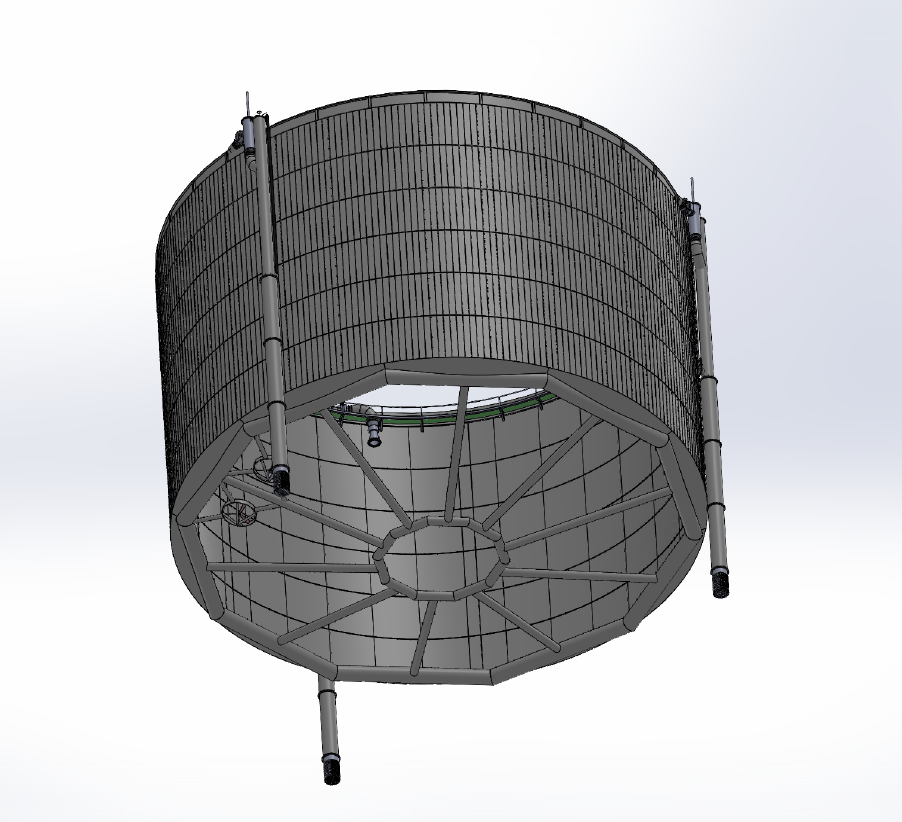
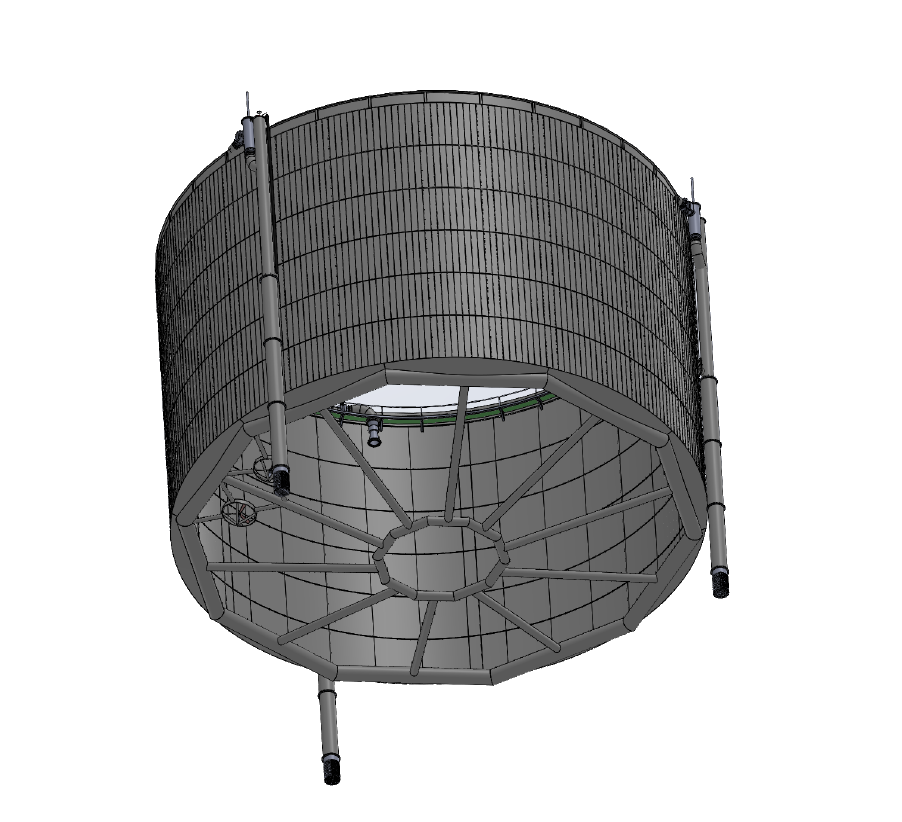
Update site content and imagery from Olav feedback

Changed region(s): [[0.745, 0.0, 1.0, 0.6083], [0.0, 0.4866, 0.1863, 0.5779]]

diff --git a/index.html b/index.html
@@ -508,6 +508,19 @@
             }
             .stat .val { font-size: 1.55rem; }
             .stat .sub { font-size: .68rem; }
+            .pilot-tag {
+                padding: 4px 8px;
+                font-size: .56rem;
+                letter-spacing: .1em;
+            }
+            .pilot-tag--folk {
+                left: 50%;
+                bottom: 5%;
+            }
+            .pilot-tag--nets {
+                left: 50%;
+                top: 41%;
+            }
         }
 
         /* ── Process steps ── */
@@ -531,6 +544,22 @@
 
         /* ── Image frame ── */
         .img-frame { border-radius: 16px; overflow: hidden; border: 1px solid var(--border); background: var(--bg-3); }
+        .solution-semi-frame {
+            background: #fff !important;
+            display: flex;
+            align-items: center;
+            justify-content: center;
+        }
+        .solution-semi-frame img {
+            width: 100%;
+            height: 100%;
+            min-height: 150px;
+            object-fit: contain;
+            object-position: center;
+            transform: scale(1.12);
+            transform-origin: center;
+            background: #fff;
+        }
         .solution-cutout-frame {
             background: #fff !important;
             display: flex;
@@ -543,6 +572,49 @@
             min-height: 150px;
             object-fit: contain;
             background: #fff;
+        }
+        .pilot-annotated-frame {
+            position: relative;
+            max-height: 400px;
+        }
+        .pilot-annotated-frame > img {
+            display: block;
+            width: 100%;
+            max-height: 400px;
+        }
+        .pilot-overlay {
+            position: absolute;
+            inset: 0;
+            pointer-events: none;
+        }
+        .pilot-tag {
+            position: absolute;
+            z-index: 2;
+            display: inline-flex;
+            align-items: center;
+            justify-content: center;
+            padding: 5px 10px;
+            border-radius: 999px;
+            font-size: .62rem;
+            font-weight: 800;
+            letter-spacing: .12em;
+            text-transform: uppercase;
+            color: rgba(237,244,249,.78);
+            background: rgba(3,14,26,.34);
+            border: 1px solid rgba(185,243,239,.12);
+            box-shadow: 0 8px 18px rgba(0,0,0,.12);
+            backdrop-filter: blur(8px);
+            -webkit-backdrop-filter: blur(8px);
+        }
+        .pilot-tag--folk {
+            left: 50%;
+            bottom: 7%;
+            transform: translateX(-50%);
+        }
+        .pilot-tag--nets {
+            left: 50%;
+            top: 44%;
+            transform: translateX(-50%);
         }
 
         /* ── prefers-reduced-motion ── */
@@ -674,8 +746,8 @@
                             <span class="cbadge-title en">Tight barrier</span>
                         </div>
                         <div class="cbadge-val">
-                            <span class="no">Lukket PE100-vegg</span>
-                            <span class="en">Closed PE100 wall</span>
+                            <span class="no">Lukket dobbel PE100-vegg</span>
+                            <span class="en">Closed double PE100 wall</span>
                         </div>
                     </div>
 
@@ -687,8 +759,8 @@
                             <span class="cbadge-title en">Escape prevention</span>
                         </div>
                         <div class="cbadge-val">
-                            <span class="no">Stiv PE100-konstruksjon</span>
-                            <span class="en">Rigid PE100 structure</span>
+                            <span class="no">Stiv dobbel PE100-konstruksjon</span>
+                            <span class="en">Rigid double PE100 structure</span>
                         </div>
                     </div>
 
@@ -794,8 +866,8 @@
                 <span class="en">Not away from the sea.<br>More control at sea.</span>
             </h2>
             <p class="text-lg leading-relaxed mx-auto" style="color:var(--text-2); max-width:800px;">
-                <span class="no">Sjøen gir oppdrettet store fortrinn: vannvolum, etablerte lokaliteter og kjent drift. Utfordringen er at åpne merder gir for liten kontroll på lus, smittepress, rømming og utslipp. Folkemerden er utviklet for å beholde sjøens fortrinn - og gi produksjonen mer kontroll.</span>
-                <span class="en">The sea offers major advantages for aquaculture: water volume, existing sites and familiar operations. The challenge is that open net pens provide too little control over lice pressure, disease exposure, escapes and emissions. Folkemerden is designed to keep the advantages of sea-based farming - while giving production more control.</span>
+                <span class="no">Sjøen gir oppdrettet store fortrinn: vannvolum, etablerte lokaliteter og kjent drift. Utfordringen er at åpne merder gir for liten kontroll på lus, smittepress, rømming og utslipp. Folkemerden er utviklet for å beholde sjøens fortrinn, utnytte laksens egenskaper som vekselvarmt dyr – og gi produksjonen mer kontroll.</span>
+                <span class="en">The sea offers major advantages for aquaculture: water volume, existing sites and familiar operations. The challenge is that open net pens provide too little control over lice pressure, disease exposure, escapes and emissions. Folkemerden is designed to keep the advantages of sea-based farming, make use of salmon's characteristics as an ectothermic animal, and give production more control.</span>
             </p>
         </div>
 
@@ -916,8 +988,8 @@
                     <span class="no">Rømmingsrisiko</span><span class="en">Escape risk</span>
                 </h3>
                 <p class="text-sm leading-relaxed" style="color:var(--text-2);">
-                    <span class="no">En stiv konstruksjon i hardt materiale kan redusere rømmingsrisikoen og gi grunnlag for ekstra fysisk barriere sammenlignet med duk- og notmerder.</span>
-                    <span class="en">A rigid construction in hard material may reduce escape risk and provide a basis for enhanced physical containment compared to fabric and net cages.</span>
+                    <span class="no">En stiv konstruksjon i hardt materiale og doble vegger kan redusere rømmingsrisikoen og gi grunnlag for ekstra fysisk barriere sammenlignet med duk- og notmerder.</span>
+                    <span class="en">A rigid construction in hard material and double walls may reduce escape risk and provide a basis for enhanced physical containment compared to fabric and net cages.</span>
                 </p>
             </div>
 
@@ -1050,21 +1122,20 @@
                          style="min-height:220px; background:var(--bg-3);">
                 </div>
                 <div class="grid grid-cols-2 gap-4">
-                    <div class="img-frame">
+                    <div class="img-frame solution-semi-frame">
                         <img src="assets/folkemerd-semi.png"
                              alt="Folkemerden semilukket variant — 3D-modell med åpen underdel og nettløsning"
-                             class="w-full object-contain"
-                             style="min-height:150px; background:var(--bg-3);">
+                             class="w-full object-contain">
                     </div>
                     <div class="img-frame solution-cutout-frame">
-                        <img src="plastcutout.png"
+                        <img src="plast1.png"
                              alt="Folkemerden lukket variant — utsnitt av plastkonstruksjon på hvit bakgrunn"
                              class="w-full object-contain">
                     </div>
                 </div>
                 <p class="text-xs text-center" style="color:var(--text-3);">
-                    <span class="no">3D-modeller av lukket og semilukket variant, sett fra ulike vinkler. Referansemodell — endelig dimensjonering avhenger av lokalitet og krav.</span>
-                    <span class="en">3D models of closed and semi-closed variants from different angles. Reference model — final dimensions subject to site conditions and requirements.</span>
+                    <span class="no">3D-modeller av lukket og semilukket Folkemerd, samt eksempel på stiv PE100-konstruksjon med sammensveisede plater og firkantrør. Endelig dimensjonering avhenger av lokalitet, strømforhold og regulatoriske krav.</span>
+                    <span class="en">3D models of the closed and semi-closed Folkemerden, along with an example of a rigid PE100 structure built from welded plates and square tubes. Final dimensioning depends on site conditions, current conditions and regulatory requirements.</span>
                 </p>
             </div>
         </div>
@@ -1236,6 +1307,23 @@
             </p>
         </div>
 
+        <div class="rounded-2xl overflow-hidden mb-10 pilot-annotated-frame">
+            <img src="assets/postsmolt.png"
+                 alt="Konseptillustrasjon av trinnvis innfasing med to lukkede enheter foran eksisterende merdstruktur"
+                 class="w-full object-cover object-center"
+                 style="max-height:400px;">
+            <div class="pilot-overlay" aria-hidden="true">
+                <div class="pilot-tag pilot-tag--folk">
+                    <span class="no">2x Folkemerder</span>
+                    <span class="en">2x Folkemerden</span>
+                </div>
+                <div class="pilot-tag pilot-tag--nets">
+                    <span class="no">6x Notmerder</span>
+                    <span class="en">6x Net pens</span>
+                </div>
+            </div>
+        </div>
+
         <div class="grid md:grid-cols-3 gap-5">
             <div class="card text-center">
                 <div class="w-12 h-12 rounded-2xl flex items-center justify-center mx-auto mb-4"
@@ -1319,7 +1407,7 @@
                     <span class="no">Sveisbar og kontrollerbar</span><span class="en">Weldable and inspectable</span>
                 </h3>
                 <p class="text-sm leading-relaxed" style="color:var(--text-2);">
-                    <span class="no">Plater og stendere sveises etter etablerte prosedyrer. Sveisefuger kan kontrolleres i henhold til Norsk Standard.</span>
+                    <span class="no">Plater og stendere sveises etter etablerte prosedyrer. Alternativt lages en mangekantet yttervegg av sammensveisede firkantrør. Sveisefuger kan kontrolleres i henhold til Norsk Standard.</span>
                     <span class="en">Plates and frames welded to established procedures. Weld seams can be inspected per Norwegian Standard.</span>
                 </p>
             </div>
@@ -1398,7 +1486,7 @@
                     <span class="en">Havklu AS owns the patent behind Folkemerden. The concept was developed by civil engineer Olav Klungreseth, building on more than ten years of work with large production units for sea-based aquaculture.</span>
                 </p>
                 <p class="text-lg leading-relaxed mb-8" style="color:var(--text-2);">
-                    <span class="no">Forgjengeren, Hydra-tanken/Storbåtsegga, fikk fire statlige utviklingskonsesjoner og ble bygget i stål. Folkemerden viderefører prinsippene i en enklere og mer kostnadseffektiv konstruksjon i termoplast.</span>
+                    <span class="no">Forgjengeren, Hydra-tanken/Storbåtsegga, fikk fire statlige utviklingskonsesjoner og ble bygget av stål. Den ble imidlertid overtatt av Nordlaks ASA og bygget i Tyrkia. Folkemerden viderefører de viktigste prinsippene i en enklere og mer kostnadseffektiv konstruksjon i termoplast.</span>
                     <span class="en">The predecessor, the Hydra-tank/Storbåtsegga, received four government development concessions and was built in steel. Folkemerden carries forward the principles in a simpler and more cost-effective thermoplastic construction.</span>
                 </p>
                 <div class="flex flex-wrap gap-3">
